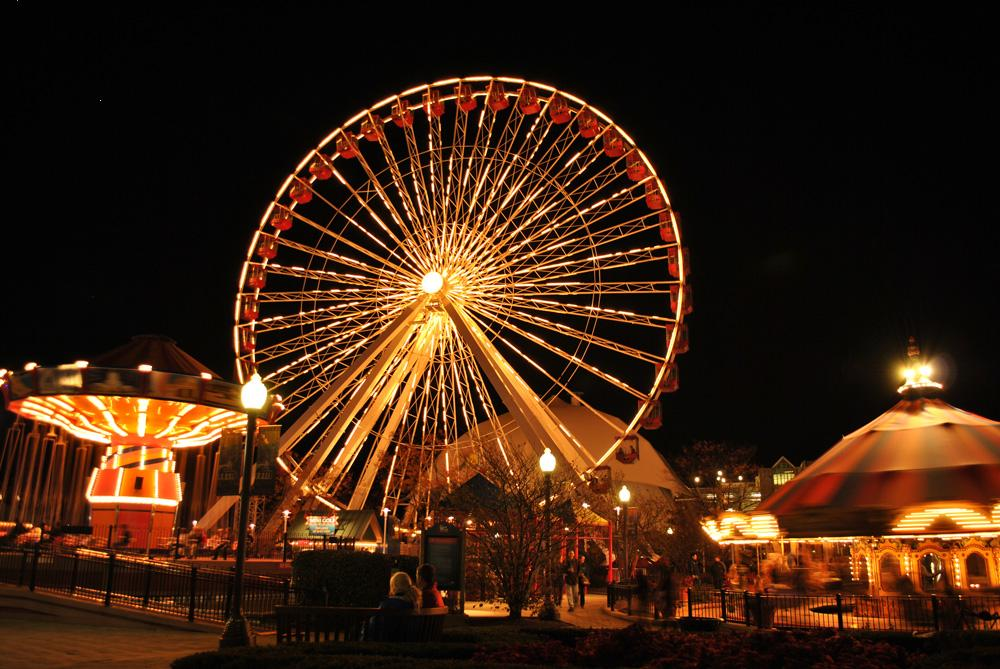
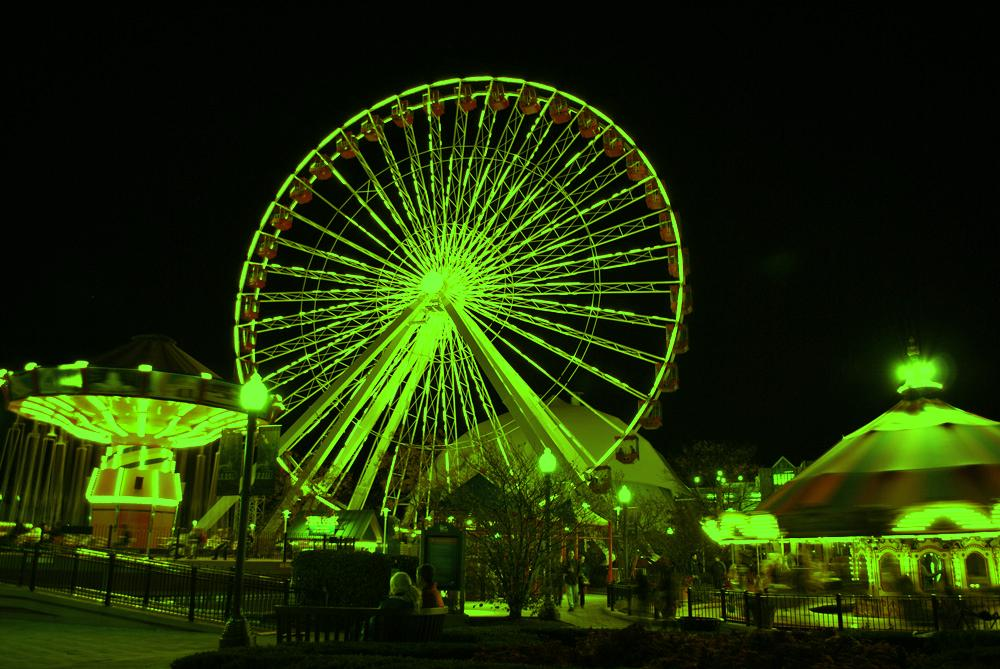
Started color lab

diff --git a/ColorLabs17/TestPicture17.java b/ColorLabs17/TestPicture17.java
@@ -6,6 +6,7 @@
  * @author (Kevin Hayes)
  * @version (10-19-2016)
  */
+import java.util.Random;
 import java.awt.*;// the color class in awt library
 import java.util.*;
 import java.util.List; // resolves problem with java.awt.List and java.util.List
@@ -31,17 +32,28 @@ public class TestPicture17
      //relative path               dir/folder/file
      Picture apic = new Picture("images\\beach.jpg");
      Picture ferris1 = new Picture("images/2000 ferris wheel2.jpg");
-     Picture selfie = new Picture("images/seflie.jpg");
-     Picture ferris3 = new Picture("images/2000 ferris wheel2.jpg");
+     Picture bMark = new Picture("images/blue-mark.jpg");
+     Picture cycle = new Picture("images/blueMotorcycle.jpg");
+     Picture temple1 = new Picture("images/temple.jpg");
+     
+    
 
-     apic.explore();//!!!!!!!! Displays the picture
-     ferris1.explore();
-     selfie.explore();
+     //!!!!!!!! Displays the picture
+     
+    
      
      //makes an array of pixels
      Pixel[] pixels;
+     Pixel[] pixels2;
+     Pixel[] pixels3;
+     Pixel[] pixels4;
+     Pixel[] pixels5;
      //gets pixels from picture and assigns to pixels array
      pixels = ferris1.getPixels();
+     pixels2 = apic.getPixels();
+     pixels3 = bMark.getPixels();
+     pixels4 = cycle.getPixels();
+     pixels5 = temple1.getPixels();
     
      //how many pixels or how large array
     System.out.println("This is a large array"+pixels.length  );
@@ -49,40 +61,73 @@ public class TestPicture17
 
     /**/
         //access each index, arrray note
-    System.out.println(pixels[17]);
-    //access each pixel pic.methods.getPixel
-    Pixel spot = ferris1.getPixel(100,100);
-    Pixel spot50 = ferris1.getPixel(50,50);
-    Color lesteel = new Color(176,196,222);
+    // System.out.println(pixels[17]);
+    // //access each pixel pic.methods.getPixel
+    // Pixel spot = ferris1.getPixel(100,100);
+    // Pixel spot50 = ferris1.getPixel(50,50);
+    // Color lesteel = new Color(176,196,222);
     
     
-    System.out.println(pixels[17].getColor());
-    System.out.println(spot);
+    // System.out.println(pixels[17].getColor());
+    // System.out.println(spot);
     
-    Pixel spot17 = pixels[17];
-    spot17.setRed(200);
-    spot17.setBlue(150);
-    spot17.setGreen(175);
-    ferris1.explore();
+    // Pixel spot17 = pixels[17];
+    // spot17.setRed(200);
+    // spot17.setBlue(150);
+    // spot17.setGreen(175);
+    // ferris1.explore();
     
-    spot.setColor(Color.yellow);
-    ferris1.explore();
+    // spot.setColor(Color.yellow);
+    // ferris1.explore();
 /*
     pixels[17].setColor(Color.blue);
     spot.setColor(new Color(252,252,252));
     pixels[500034].setColor(Color.blue);
 
     ferris1.explore();
-/*
+/**/
    // loop to access indexes of array or collection
 
     //for each loop spot  is a ?
-    for (Pixel spot : pixels)
-    System.out.println( spot );
-
-
-   
- /**/
+    int red;
+    int blue;
+    int green;
+    for (Pixel spot1 : pixels)
+    {
+        blue = spot1.getBlue();
+        red = spot1.getRed();
+        green = spot1.getGreen();
+        blue = (int)(blue * .25);
+        red = (int)(red * .50);
+        green = (int)(green * 1.5);
+        spot1.setBlue(blue);
+        spot1.setRed(red);
+        spot1.setGreen(green);
+    }
+        //System.out.println( spot1 );
+     ferris1.explore();
+    for (Pixel spot2 : pixels4)
+    {
+        red = spot2.getRed();
+        green = spot2.getGreen();
+        blue = spot2.getBlue();
+        red = red;
+        blue = (red + 5);
+        green = (red - 5);
+        spot2.setBlue(blue);
+        spot2.setRed(red);
+        spot2.setGreen(green);
+    }
+     cycle.explore();
+    for (Pixel spot3 : pixels5)
+    {
+        red = spot3.getRed();
+        green = spot3.getGreen();
+        blue = spot3.getBlue();
+        red = (red + 50);
+        green = (green + 50);
+    }
+ 
 
  /**
   * Method to clear red from picture
